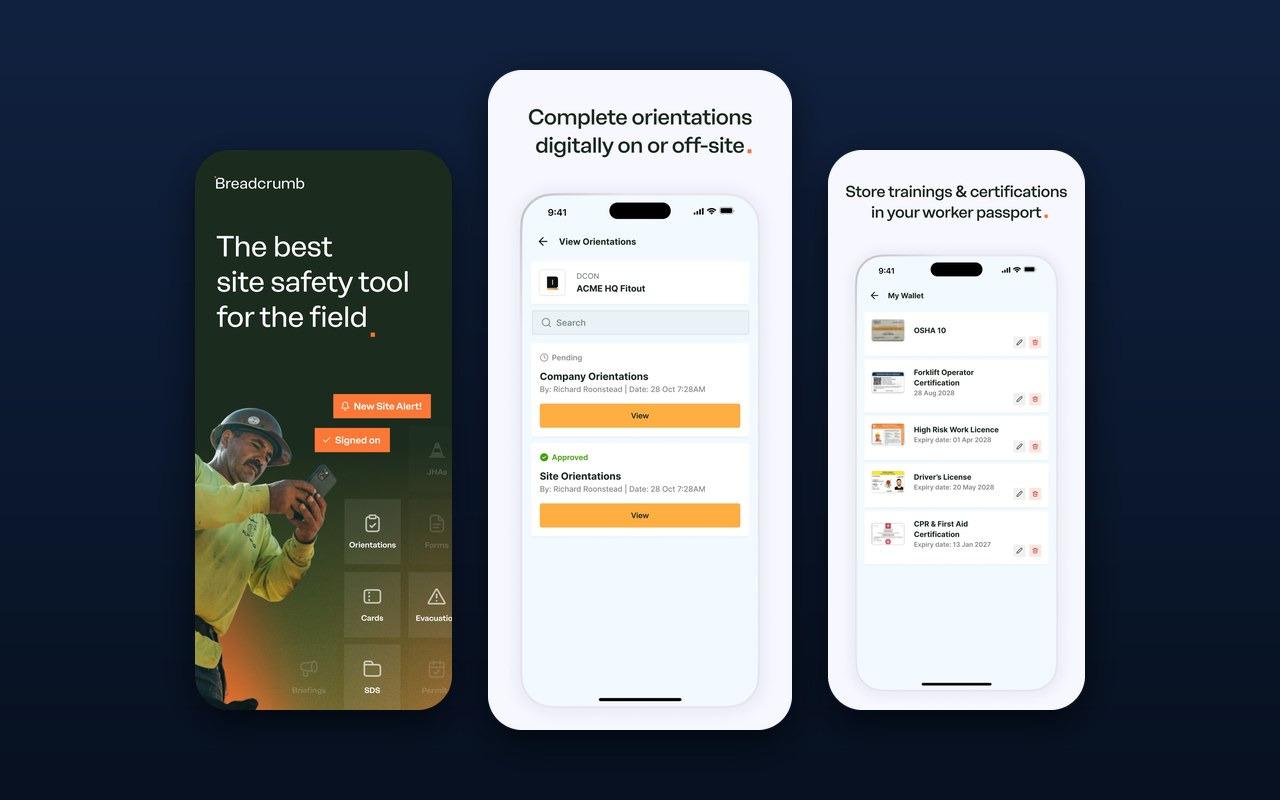
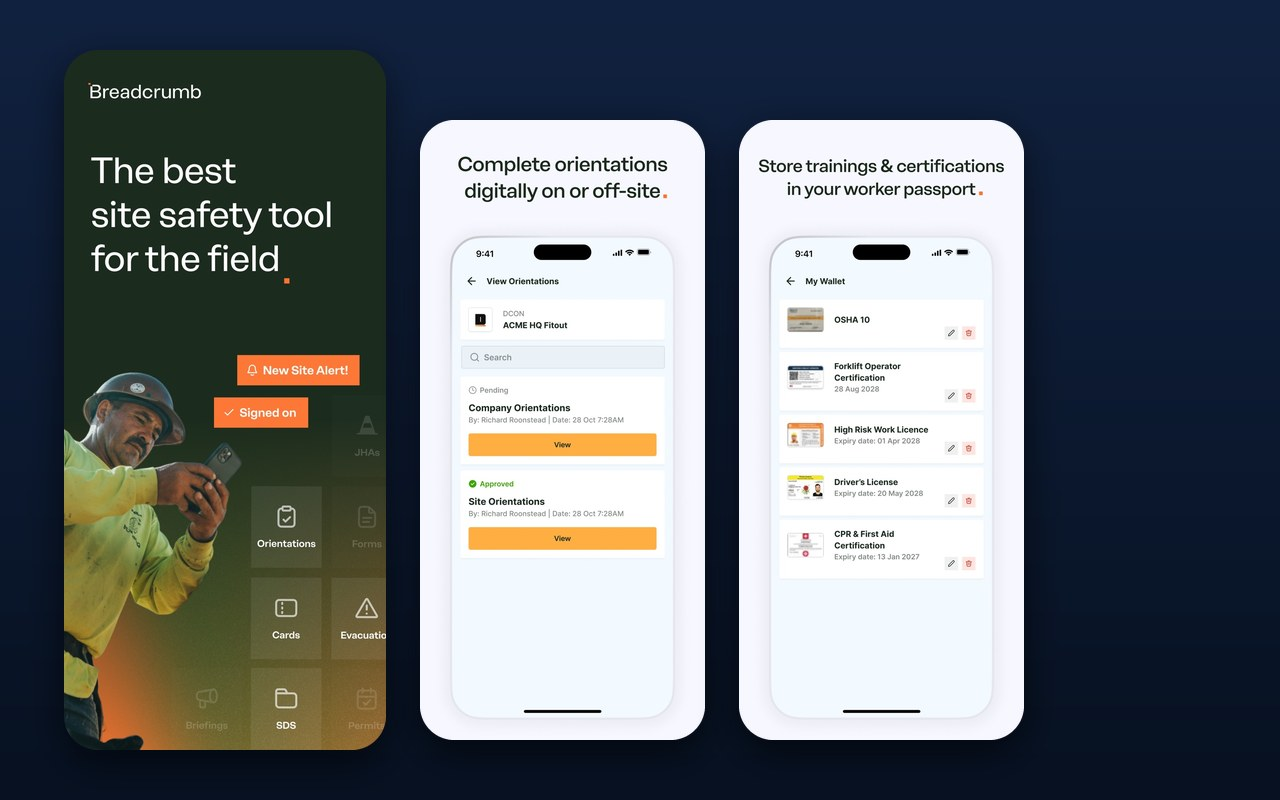
Fix missing featured thumbnails: drop offline cache, load eagerly, reposition
- Remove gatsby-plugin-offline and ship a self-unregistering service worker
  so stale caches no longer hide site updates
- Load featured images eagerly
- Re-lay thumbnails so phones sit outside the description overlap area

diff --git a/static/sw.js b/static/sw.js
@@ -1,0 +1,14 @@
+// Replaces the old offline service worker. Browsers that installed it will pick this
+// file up, clear its caches, and unregister it so updates to the site show immediately.
+self.addEventListener('install', () => self.skipWaiting());
+
+self.addEventListener('activate', event => {
+  event.waitUntil(
+    caches
+      .keys()
+      .then(keys => Promise.all(keys.map(key => caches.delete(key))))
+      .then(() => self.registration.unregister())
+      .then(() => self.clients.matchAll({ type: 'window' }))
+      .then(clients => clients.forEach(client => client.navigate(client.url))),
+  );
+});

diff --git a/src/components/sections/featured.js b/src/components/sections/featured.js
@@ -417,7 +417,7 @@ const Featured = () => {
 
                 <div className="project-image">
                   <a href={mainLink}>
-                    <GatsbyImage image={image} alt={title} className="img" />
+                    <GatsbyImage image={image} alt={title} className="img" loading="eager" />
                   </a>
                 </div>
               </StyledProject>

diff --git a/gatsby-config.js b/gatsby-config.js
@@ -30,7 +30,6 @@ module.exports = {
         icon: 'src/images/logo.png',
       },
     },
-    `gatsby-plugin-offline`,
     {
       resolve: `gatsby-source-filesystem`,
       options: {
